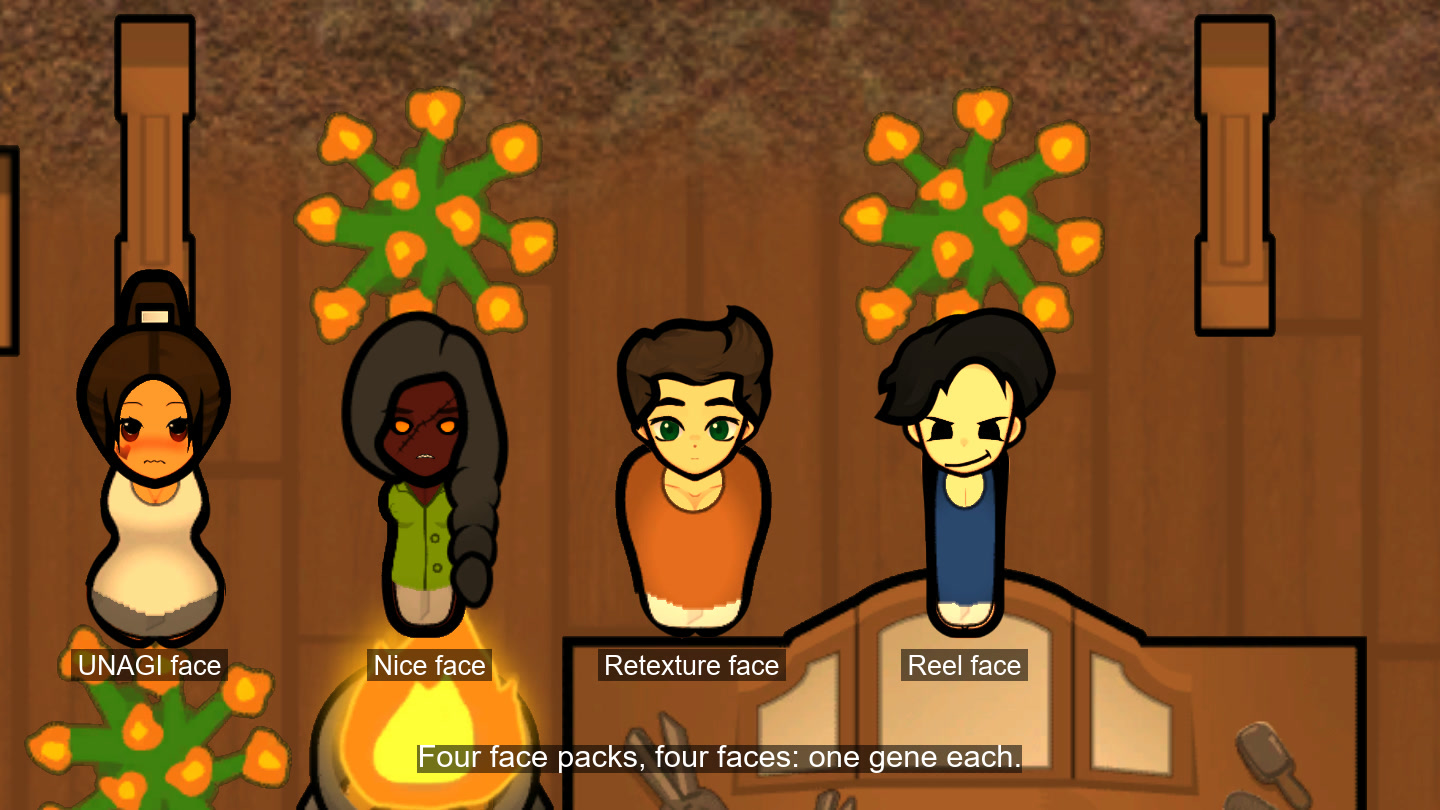
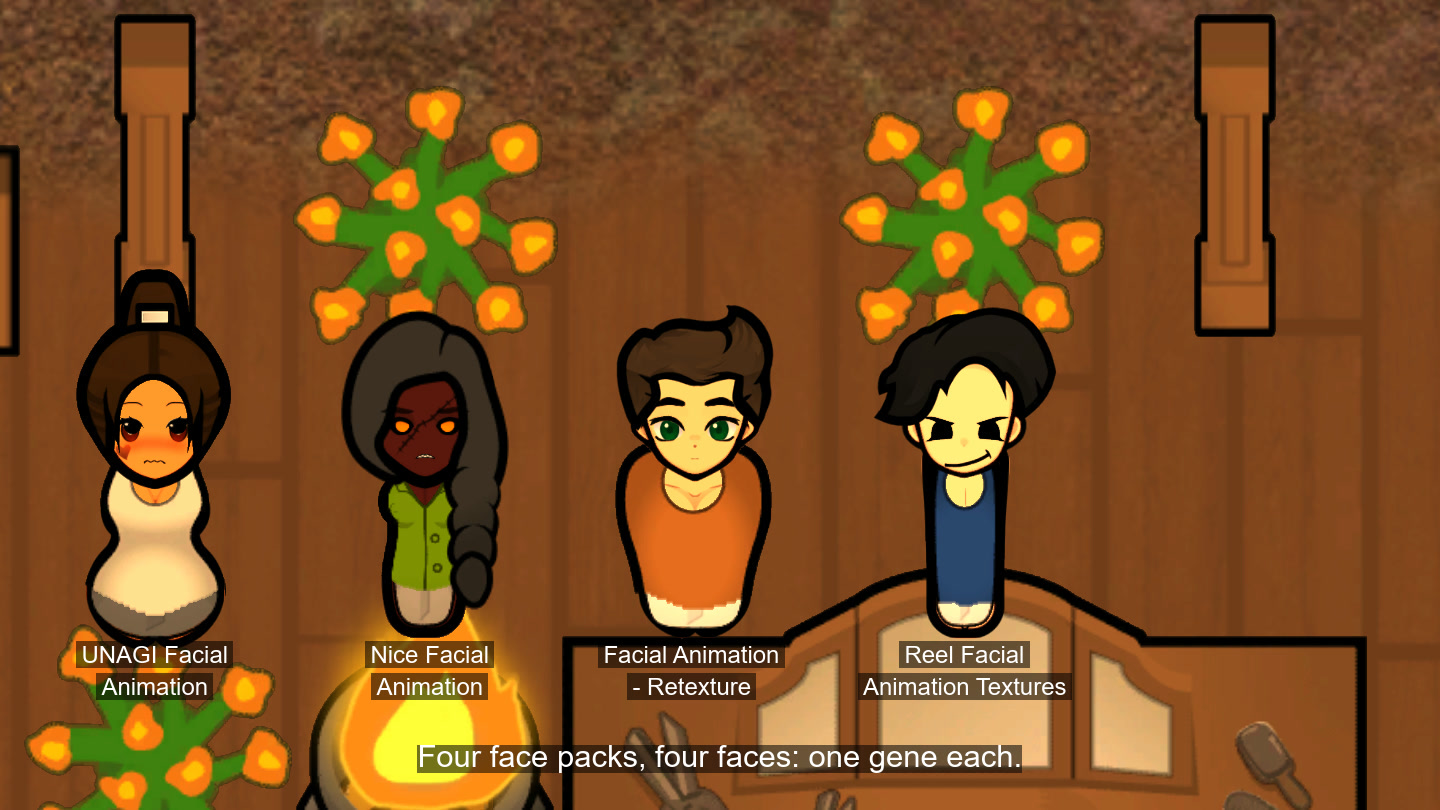
Gallery shot 4: full face pack names on labels; STATUS to-do step 2 done

diff --git a/STATUS.md b/STATUS.md
@@ -21,7 +21,7 @@ tested_on: "2026-11-08 pickle 5cb9ad6"
 code_review_sha: 5cb9ad6c9cbf9e51ae50f01c7bc66274c9ebc2c6
 remaining:
   - "owner 2026-11-17: no verdict on any gallery image before ALL images are ready (plan 2 included); then send the five subtitled images in one message. No ticket open. Open design asks, no code before 1.0.0 is out: sex gene and body texture resolver in Docs/SEX-GENDER-DESIGN.md (ships 1.1.0), BiB_Furry for CoKK (1.1.0, defName provisional), sex Pickle steps are BiB steps (PiT deleted its copies), fallback order of missing textures to confirm, Biotech Body_* genes to check, Neutral profile word open. Peers told: SaB, PiT, CoKK, VTW (build mounted, e5ab059)."
-  - "TO DO before the one owner review (GALLERY.md 12b, no image to the owner until all done): (1) DONE 2026-11-17: ticket 5378 (shot 2 v21b, exit 0, 1 passed) read, crop 960x540 x 500 y 290 (y 200 put the feet on the subtitle band), labels "vanilla body" (left) and "WDI body" (right) burned, subtitle "Two bodies, two looks: WDI and vanilla.", Art/Gallery-clean and Art/Gallery written; both pawns same Hulk Female shirt/pants (pants white vs pink), no beard; rescore still to do in step (5); (2) shot 4 labels in Art/Gallery were burned with short gene labels, redo with full pack names (UNAGI Facial Animation, Nice Facial Animation, Facial Animation - Retexture, Reel Facial Animation Textures); (3) shot 6: Quill head offset (NSB NEUTRES-TETE, not BiB), recompose with NSB pawns without Quill, check the ground is not read as water; (4) shotlist v21 via write-shotlist: combinations shot with gene names (pawns outside NSB need owner validation, ask when the scenario is written), Genes inspect tab shot (steps: I select, I open the hidden Genes inspect tab, needs nelim.pickletools.inspecttabs in the map, tab step never played, studio mode may hide the pane) and Mod options page shot (I open the mod options page of the mod), global genes and packs in subtitles and Steam text; (5) score-gallery on all, burn subtitles, one message to the owner with all candidates. Numbering skips 3 (dropped). PiT VEFA answer: no single face, owner never named a pawn, decision taken by the director (Nice FA face)."
+  - "TO DO before the one owner review (GALLERY.md 12b, no image to the owner until all done): (1) DONE 2026-11-17: ticket 5378 (shot 2 v21b, exit 0, 1 passed) read, crop 960x540 x 500 y 290 (y 200 put the feet on the subtitle band), labels "vanilla body" (left) and "WDI body" (right) burned, subtitle "Two bodies, two looks: WDI and vanilla.", Art/Gallery-clean and Art/Gallery written; both pawns same Hulk Female shirt/pants (pants white vs pink), no beard; rescore still to do in step (5); (2) DONE 2026-11-17: shot 4 relabelled with full pack names on two lines (UNAGI Facial Animation, Nice Facial Animation, Facial Animation - Retexture, Reel Facial Animation Textures; one drawtext per line, a newline in a textfile draws a tofu glyph), Art/Gallery written, clean untouched; was: shot 4 labels burned with short gene labels, redo with full pack names (UNAGI Facial Animation, Nice Facial Animation, Facial Animation - Retexture, Reel Facial Animation Textures); (3) shot 6: Quill head offset (NSB NEUTRES-TETE, not BiB), recompose with NSB pawns without Quill, check the ground is not read as water; (4) shotlist v21 via write-shotlist: combinations shot with gene names (pawns outside NSB need owner validation, ask when the scenario is written), Genes inspect tab shot (steps: I select, I open the hidden Genes inspect tab, needs nelim.pickletools.inspecttabs in the map, tab step never played, studio mode may hide the pane) and Mod options page shot (I open the mod options page of the mod), global genes and packs in subtitles and Steam text; (5) score-gallery on all, burn subtitles, one message to the owner with all candidates. Numbering skips 3 (dropped). PiT VEFA answer: no single face, owner never named a pawn, decision taken by the director (Nice FA face)."
   - "shot 2 v21 (director decision per GALLERY.md, 2026-11-17): Hulk Female clone pair Miel (BiB_BodyWdi) and Mira (BiB_BodyVanilla), Nice FA face, Apparel_BasicShirt dyed and Apparel_Pants (no VTW patched apparel); ticket c8d5 filed (label gallery shot 2 v21 Hulk clone shirt pants), evidence Inbox/gallery-v21. On RUN_DONE: read, crop (x 500 y 200), burn gene labels WDI body and vanilla body under the pawns plus the subtitle, rescore. Image 4 labels: full pack names (owner 2026-11-17: gene labels not clear). Owner asks still to fold into shotlist v21: combinations shot, genes window and mod options page (PiT steps exist), global genes and packs in the text. Single final review rule (GALLERY.md 2026-11-08): no more images to the owner before the whole gallery is finished."
   - "body pack lot 1 confirmed for 1.1.0 (owner 2026-11-17): Erin's Body, UNAGI body, Beautiful Bodies, FemaleBB, Malang Bodies, Compatible Body2, Realistic Body, Scrubdaddy bodies, details in BACKLOG.md; PiI study asked, nothing coded before 1.0.0 is out."
   - "gene renames 2026-11-17 (owner): BiB_FaceRetexture to BiB_FaceFARetexture, BiB_VanillaBody to BiB_BodyVanilla, BiB_WdiBody to BiB_BodyWdi (not published, no save migration); old names remain in older lines below. Replay tickets owed for 03, 04, 05, 09, 11, 14, 16 before publication; VTW, SaB, CoKK, PiT told. Next: shotlist v21 (owner asks: gene labels under pawns on 2 and 4, a combinations shot 7 with gene names, genes window and mod options page via PiT steps, global genes vs mod packs in the text), body packs study asked to PiI for 1.1.0 lots."
